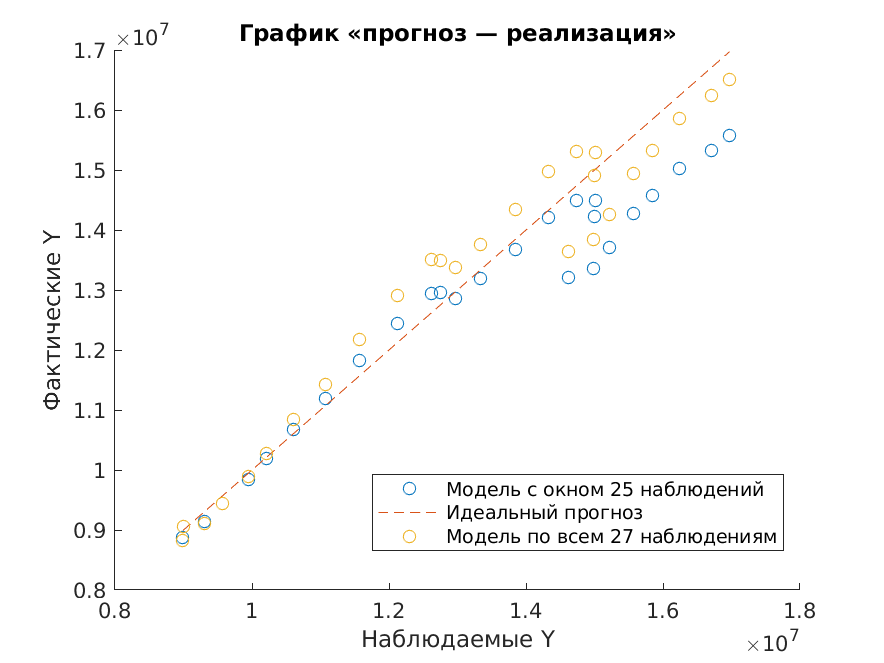
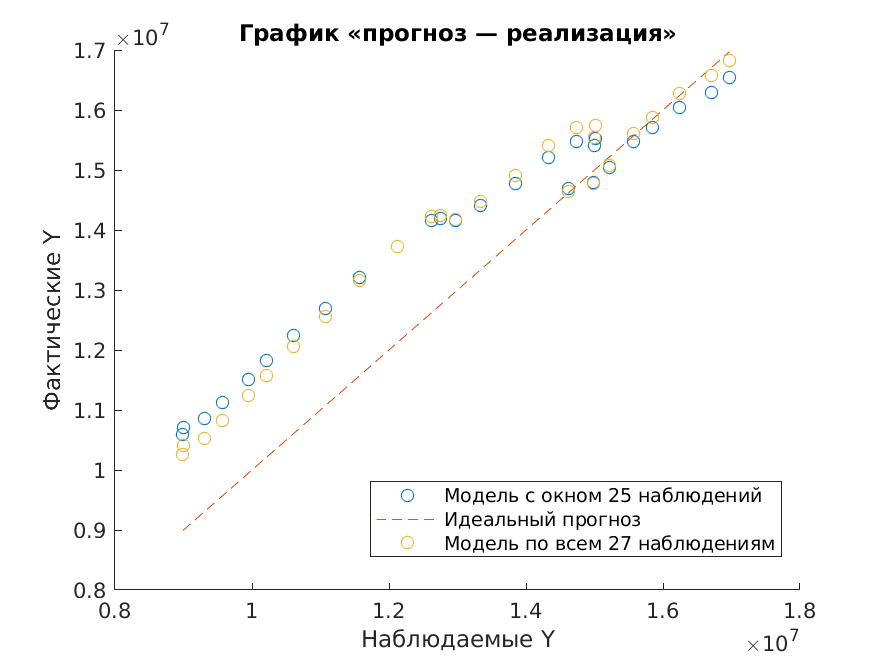
scripts update

diff --git a/solow_model.m b/solow_model.m
@@ -103,18 +103,20 @@ K = dt.NE_GDI_FTOT_KD ./ 10^6;
 L = dt.SL_TLF_TOTL_IN ./ 10^6;
 
 % функция Кобба-Дугласа (МНК на натуральных логарифмах)
-X = [ones(length(K),1) log(K), log(L)];
-b = X \ log(Y);
-Y_fit = X * b;
+X = [ones(length(K),1) log(K)-log(L)];
+b = X \ log(Y); Y_fit = exp(X * b);
+A_lsq = exp(b(1)-1)
+alpha_lsq = b(2)
+err = sqrt(mean((Y_fit-Y) .^ 2)) / mean(Y)
 
 % ищем параметры нелинейной целевой функции нескольких переменных
-x0 = [0.0001, 0.0001, 0.0001];
+x0 = [0.0001, 0.0001, 0.0001];    % A, alpha_K, alpha_L
 n = length(Y);
-count = 1;
 
-res = array2table(zeros(n-1, 5), 'VariableNames', {'w', 'A', 'alpha_K', ...
+res = array2table(zeros(19, 5), 'VariableNames', {'w', 'A', 'alpha_K', ...
     'alpha_L', 'err'});
-for i = 2:n
+count = 1;
+for i = 1:19
     T = @(x) CB_target(K, L, Y, x, i);
     [x2, fval2] = fmincon(T, x0, [-1, 0, 0], 0, [0, 1, 1], 1, ...
         [0, 0, 0], [inf, 1, 1]);

diff --git a/CB_target.m b/CB_target.m
@@ -1,5 +1,5 @@
 function err = CB_target(K, L, Y, x, w)
 % целевая функция - минимум суммы квадратов со скользящим окном
-K = K(1:w); L = L(1:w); Y = Y(1:w);
+K = K(w:end); L = L(w:end); Y = Y(w:end);
 Y_fit = x(1) .* K .^ x(2) .* L .^ x(3);
 err = sum((Y_fit - Y) .^ 2);
